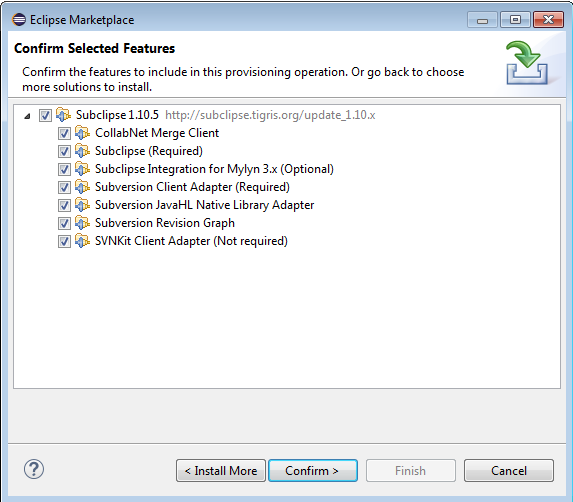
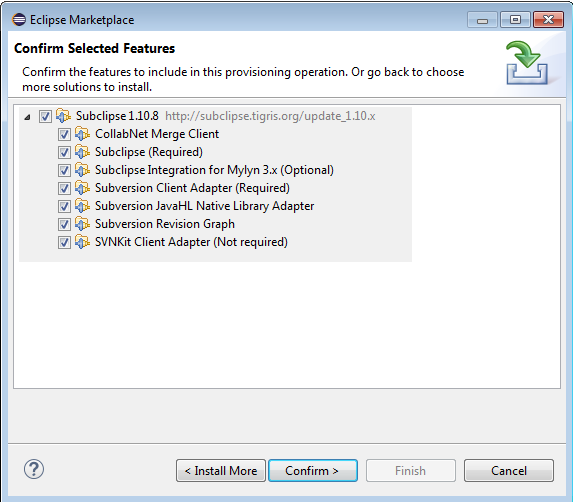
doc : mise à jour du guide d'installation

Changed region(s): [[0.0593, 0.2092, 0.6527, 0.508]]

diff --git a/site/documentation/developer/install.rst b/site/documentation/developer/install.rst
@@ -6,15 +6,20 @@ Installation des outils pour GeOxygene
 
 Cette page a pour objectif de guider le développeur dans son installation de la plateforme de développement de GeOxygene.
   
+
+.. note::
+
+  A compter de ce jour, GeOxygene passe en Java 1.7, la version 8 n'a pas encore été testée ni approuvée.
+  
+  Eclipse Luna est recommandé avec les plugins subclipse (1.10.8) et m2 (1.5.0)
+  
+  Attention : le connector subclipse pour Maven doit être installé à la main comme indiqué plus bas et non pas via le marketplace
+
   
 JAVA
 *********
 
 GeOxygene est un projet Open Source écrit en JAVA, il faut donc l'installation d'un **JDK**.
-
-.. note::
-
-  A compter de ce jour, GeOxygene passe en Java 1.7. La version 8 n'a pas encore été testée. 
 
 
 Installation
@@ -38,9 +43,9 @@ Il faut définir certaines propriétés afin de pouvoir télécharger les librai
 
 La référence de cette approche est détaillée ici : http://maven.apache.org/guides/mini/guide-repository-ssl.html.
 
-* Obtention du certificat 
+1. Obtention du certificat 
 
-**Méthode 1** : Télécharger le certificat depuis votre navigateur comme ceci : 
+Télécharger le certificat depuis votre navigateur comme ceci : 
 
 .. container:: twocol
 
@@ -75,14 +80,8 @@ La référence de cette approche est détaillée ici : http://maven.apache.org/g
        
                 Figure 1 : Téléchargement du certificat
 
-**Méthode 2** : Si vous avez openssl d'installé
 
-   .. container:: chemin
-   
-      echo -n | openssl s_client -connect forge-cogit.ign.fr:443 | sed -ne '/-BEGIN CERTIFICATE-/,/-END CERTIFICATE-/p' > forge-cogit.crt
-
-
-* La ligne de commande suivante va importer le certificat d'autorité dans un fichier trust.jks.
+2. La ligne de commande suivante va importer le certificat d'autorité dans un fichier trust.jks.
 
    .. container:: chemin
  
@@ -96,9 +95,9 @@ La référence de cette approche est détaillée ici : http://maven.apache.org/g
         Figure 2 : Importer le certificat dans un trust store
 
 
-* Saisir un mot de passe, par exemple "leschiensaboient"
+3. Saisir un mot de passe, par exemple "leschiensaboient"
 
-* Accepter le certificat
+4. Accepter le certificat
 
   .. container:: centerside
    
@@ -108,7 +107,7 @@ La référence de cette approche est détaillée ici : http://maven.apache.org/g
         Figure 3 : Accepter le certificat
 
 
-* Les variables d'environnement vont être définies plus tard (Eclipse preferences >> JDK).
+5. Les variables d'environnement vont être définies plus tard (Eclipse preferences >> JDK).
 
 
 
@@ -124,12 +123,13 @@ Installation
 ================
 
 * Vous pouvez télécharger l'avant-dernière version d'Eclipse, Kepler(4-3), directement à partir des liens ci-dessous :  
+
+====================================================================================================================================================================== ===========================================================================================================================================================================
+  `Windows 32-bit <https://www.eclipse.org/downloads/download.php?file=/technology/epp/downloads/release/luna/R/eclipse-standard-luna-R-win32.zip>`_                    `Windows 64-bit <https://www.eclipse.org/downloads/download.php?file=/technology/epp/downloads/release/luna/R/eclipse-standard-luna-R-win32-x86_64.zip>`_
+  `Mac OS X(Cocoa 32) <https://www.eclipse.org/downloads/download.php?file=/technology/epp/downloads/release/luna/R/eclipse-standard-luna-R-macosx-cocoa.tar.gz>`_      `Mac OS X(Cocoa 64) <https://www.eclipse.org/downloads/download.php?file=/technology/epp/downloads/release/luna/R/eclipse-standard-luna-R-macosx-cocoa-x86_64.tar.gz>`_
+  `Linux 32-bit <https://www.eclipse.org/downloads/download.php?file=/technology/epp/downloads/release/luna/R/eclipse-standard-luna-R-linux-gtk.tar.gz>`_               `Linux 64-bit <https://www.eclipse.org/downloads/download.php?file=/technology/epp/downloads/release/luna/R/eclipse-standard-luna-R-linux-gtk-x86_64.tar.gz>`_
+====================================================================================================================================================================== ===========================================================================================================================================================================
   
-============================================================================================================================================================================ ====================================================================================================================================================================================
-  `Windows 32-bit <http://www.eclipse.org/downloads/download.php?file=/technology/epp/downloads/release/kepler/SR1/eclipse-standard-kepler-SR1-win32.zip>`_                    `Windows 64-bit <http://www.eclipse.org/downloads/download.php?file=/technology/epp/downloads/release/kepler/SR1/eclipse-standard-kepler-SR1-win32-x86_64.zip>`_
-  `Mac OS X(Cocoa 32) <http://www.eclipse.org/downloads/download.php?file=/technology/epp/downloads/release/kepler/SR1/eclipse-standard-kepler-SR1-macosx-cocoa.tar.gz>`_      `Mac OS X(Cocoa 64) <http://www.eclipse.org/downloads/download.php?file=/technology/epp/downloads/release/kepler/SR1/eclipse-standard-kepler-SR1-macosx-cocoa-x86_64.tar.gz>`_
-  `Linux 32-bit <http://www.eclipse.org/downloads/download.php?file=/technology/epp/downloads/release/kepler/SR1/eclipse-standard-kepler-SR1-linux-gtk.tar.gz>`_               `Linux 64-bit <http://www.eclipse.org/downloads/download.php?file=/technology/epp/downloads/release/kepler/SR1/eclipse-standard-kepler-SR1-linux-gtk-x86_64.tar.gz>`_
-============================================================================================================================================================================ ====================================================================================================================================================================================
 
 (Attention la dernière version d'Eclipse Luna (4-4) pose des difficultés dans la gestion des certifcats java).   
 
@@ -355,7 +355,7 @@ Subclipse est un plugin Eclipse permettant d'utiliser Subversion (SVN) directeme
 	     
 	     2. clicker sur **go** afin de rechercher le plugin
 	     
-	     3. dans la liste des plugins, clicker sur **install** du plugin Subclipse 1.10.5
+	     3. dans la liste des plugins, clicker sur **install** du plugin Subclipse 1.10.8
    
    .. container:: rightside     
        
@@ -364,7 +364,7 @@ Subclipse est un plugin Eclipse permettant d'utiliser Subversion (SVN) directeme
 	      .. figure:: /documentation/resources/img/install/LunaSubclipse.png
 	         :width: 350px
 	      
-	         Figure 12 : Subclipse 1.10.5 in Marketplace 
+	         Figure 12 : Subclipse 1.10.8 in Marketplace 
          
 .. container:: twocol
 
@@ -502,24 +502,6 @@ Pour installer GeOxygene il faut le plugin m2e et le connector subclipse.
             Figure 19 : Confirm Selected Features  
 
 
-
-.. container:: twocol
-
-   .. container:: leftside
-            
-      **Etape 3** : Afin que le plugin m2eclipse (1.5.2) soit compatible avec la version d'Eclipse Kepler, un message d'avertissement indique que certains composants vont peut-être être installés avec une version antérieure. 
-
-   .. container:: rightside     
-   
-      .. container:: centerside
-      
-         .. figure:: /documentation/resources/img/install/MavenConfigurationDowngrade.png
-            :width: 500px
-       
-            Figure 20 : Confirm Selected Features
-
-
-
 .. container:: twocol
 
    .. container:: leftside
@@ -533,7 +515,7 @@ Pour installer GeOxygene il faut le plugin m2e et le connector subclipse.
          .. figure:: /documentation/resources/img/install/LunaM2Eclipse_03.png
             :width: 450px
          
-            Figure 21 : Review Licenses
+            Figure 20 : Review Licenses
             
             
 .. container:: twocol
@@ -551,14 +533,14 @@ Pour installer GeOxygene il faut le plugin m2e et le connector subclipse.
          .. figure:: /documentation/resources/img/install/pluginRestart.png
             :width: 350px
 
-            Figure 22 : Restart
+            Figure 21 : Restart
 
 
 
 Connector Subclipse for Maven
 ========================================
 
-Il reste à installer le connector subclipse pour Maven. 
+Il faut installer le connector subclipse pour Maven. 
 
 **Attention** : le connector n'est pas à jour dans le catalogue du Marketplace d'Eclipse.
 
@@ -589,7 +571,7 @@ Il reste à installer le connector subclipse pour Maven.
 		      .. figure:: /documentation/resources/img/install/pluginInstall.png
 		         :width: 350px
 		      
-		         Figure 23 : Install new Software 
+		         Figure 22 : Install new Software 
    
    
   
@@ -606,7 +588,7 @@ Il reste à installer le connector subclipse pour Maven.
 	         .. figure:: /documentation/resources/img/install/pluginNewUrl.png
 	            :width: 500px
 	       
-	            Figure 24 : Add new update site 
+	            Figure 23 : Add new update site 
 
 
    .. container:: twocol
@@ -622,13 +604,61 @@ Il reste à installer le connector subclipse pour Maven.
 	         .. figure:: /documentation/resources/img/install/ConnectorM2eSubclipse.png
 	            :width: 500px
 	       
-	            Figure 25 : Add new local site
+	            Figure 24 : Add new local site
 	            
         
    .. container:: centerside
 
 	  Cliquer sur **OK**, cocher le composant à installer et finir l'installation comme habituellement (securité, licenses, ...).
 	
+
+Connector *buildhelper* for Maven
+========================================	
+
+Le connecteur **buildhelper** doit aussi être installé. Il permet d'ajouter entre autres choses de nouveaux répertoires dans le classpath.  
+
+#. Aller dans le catalogue des connecteurs de Maven :
+      
+   .. container:: chemin
+      
+      Window >> Preferences >> Maven >> Discovery
+
+   Et cliquer sur **Open Catalog** 
+   
+   .. container:: centerside
+          
+             .. figure:: /documentation/resources/img/install/ConnectorBuildhelper.png
+                :width: 500px
+           
+                Figure 25 : Open Catalog
+   
+  
+#. Sélectionner le **buildhelper** connector
+	      
+   .. container:: centerside
+          
+      .. figure:: /documentation/resources/img/install/ConnectorBuildhelper_02.png
+         :width: 500px
+           
+         Figure 26 : buildhelper connector
+	      
+#. Installez le 
+
+    .. container:: centerside
+          
+     .. figure:: /documentation/resources/img/install/ConnectorBuildhelper_03.png
+        :width: 500px
+           
+        Figure 27 : buildhelper connector version
+	      
+	
+	.. container:: centerside
+          
+     .. figure:: /documentation/resources/img/install/ConnectorBuildhelper_04.png
+        :width: 500px
+           
+        Figure 28 : buildhelper connector : accept security warning
+	      
 	      
 
 Maven preferences
@@ -670,7 +700,7 @@ Afin de voir la javadoc ou les sources des dépendances de vos projets, sélecti
     .. figure:: /documentation/resources/img/install/MavenConfiguration.png
        :width: 500px
        
-       Figure 26 : Eclipse preferences pour Maven
+       Figure 29 : Eclipse preferences pour Maven
 
 
 Tout est en place pour l'installation de GeOxygene.

diff --git a/site/documentation/tutorial/architecture.rst b/site/documentation/tutorial/architecture.rst
@@ -9,7 +9,7 @@ Component Architecture
 
 .. container:: centerside
      
-    .. figure:: /documentation/resources/img/architecture/ArchitectureGeoxygene_01.png
+    .. figure:: /documentation/resources/img/architecture/ArchitectureGeoxygene_02.png
        :width: 750px
        
        Figure 1 : GeOxygene Architecture
